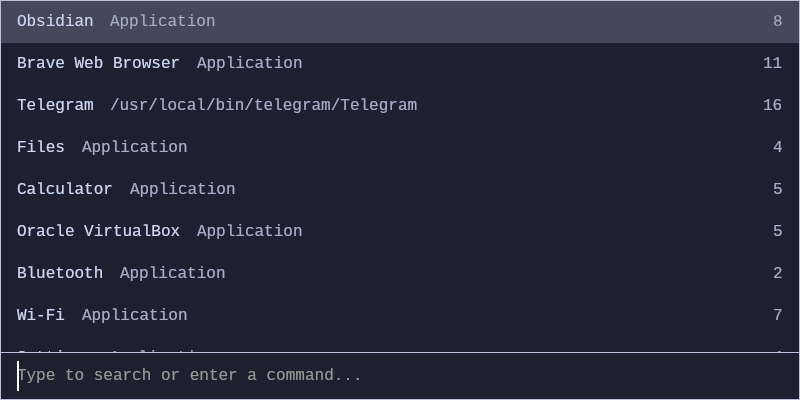
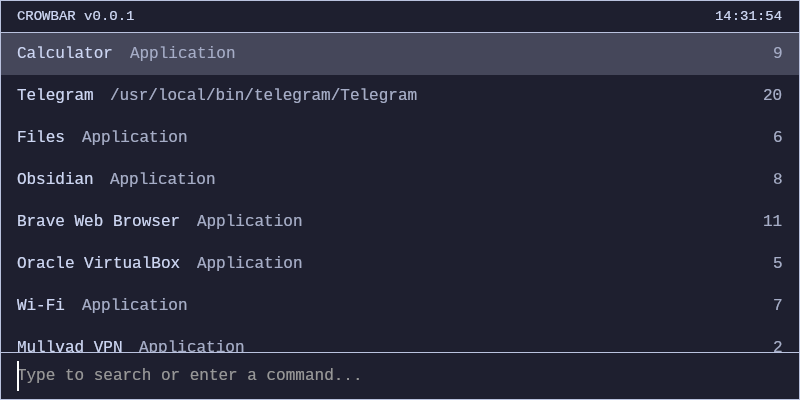
feat: add titlebar

diff --git a/src/main.rs b/src/main.rs
@@ -12,11 +12,13 @@ use action_list_view::ActionListView;
 use config::Config;
 use text_input::TextInput;
 
+use chrono::Local;
 use std::error::Error;
+use std::time::{Duration, SystemTime, UNIX_EPOCH};
 
 use gpui::{
     actions, div, prelude::*, px, App, AppContext, Application, Bounds, Context, Entity,
-    FocusHandle, Focusable, KeyBinding, Size, Window, WindowBounds, WindowOptions,
+    FocusHandle, Focusable, KeyBinding, Size, Timer, Window, WindowBounds, WindowOptions,
 };
 
 use log::{debug, info};
@@ -49,6 +51,7 @@ struct Crowbar {
     query_input: Entity<TextInput>,
     action_list: Entity<ActionListView>,
     focus_handle: FocusHandle,
+    current_time: String,
 }
 
 impl Focusable for Crowbar {
@@ -95,11 +98,30 @@ impl Crowbar {
             cx.quit();
         }
     }
+
+    fn update_time(&mut self, cx: &mut Context<Self>) {
+        self.current_time = Local::now().format("%H:%M:%S").to_string();
+        cx.notify();
+    }
 }
 
 impl Render for Crowbar {
-    fn render(&mut self, _window: &mut Window, cx: &mut Context<Self>) -> impl IntoElement {
+    fn render(&mut self, window: &mut Window, cx: &mut Context<Self>) -> impl IntoElement {
         let theme = cx.global::<Config>();
+
+        cx.spawn_in(window, |view, mut cx| async move {
+            loop {
+                Timer::after(Duration::from_secs(1)).await;
+
+                let _ = cx.update(|_, cx| {
+                    view.update(cx, |view, cx| {
+                        view.update_time(cx);
+                    })
+                    .ok()
+                });
+            }
+        })
+        .detach();
 
         div()
             .id("crowbar")
@@ -119,6 +141,23 @@ impl Render for Crowbar {
             .flex()
             .flex_col()
             .size_full()
+            .child(
+                div()
+                    .w_full()
+                    .text_sm()
+                    .px_4()
+                    .py_1()
+                    .border_b_1()
+                    .border_color(theme.border_color)
+                    .flex()
+                    .flex_row()
+                    .items_center()
+                    .justify_between()
+                    .children(vec![
+                        div().child("CROWBAR v0.0.1"),
+                        div().child(self.current_time.clone()),
+                    ]),
+            )
             .child(self.action_list.clone())
             .child(
                 div()
@@ -197,14 +236,11 @@ fn main() -> Result<(), Box<dyn Error>> {
                     let action_list = cx.new(|cx| ActionListView::new(cx));
                     let weak_ref = action_list.downgrade();
 
-                    let crowbar = cx.new(|cx| {
-                        let crowbar = Crowbar {
-                            query_input: text_input.clone(),
-                            action_list: action_list.clone(),
-                            focus_handle: cx.focus_handle(),
-                        };
-
-                        crowbar
+                    let crowbar = cx.new(|cx| Crowbar {
+                        query_input: text_input.clone(),
+                        action_list: action_list.clone(),
+                        focus_handle: cx.focus_handle(),
+                        current_time: Local::now().format("%H:%M:%S").to_string(),
                     });
 
                     cx.subscribe(&text_input, move |_view, event, cx| {
